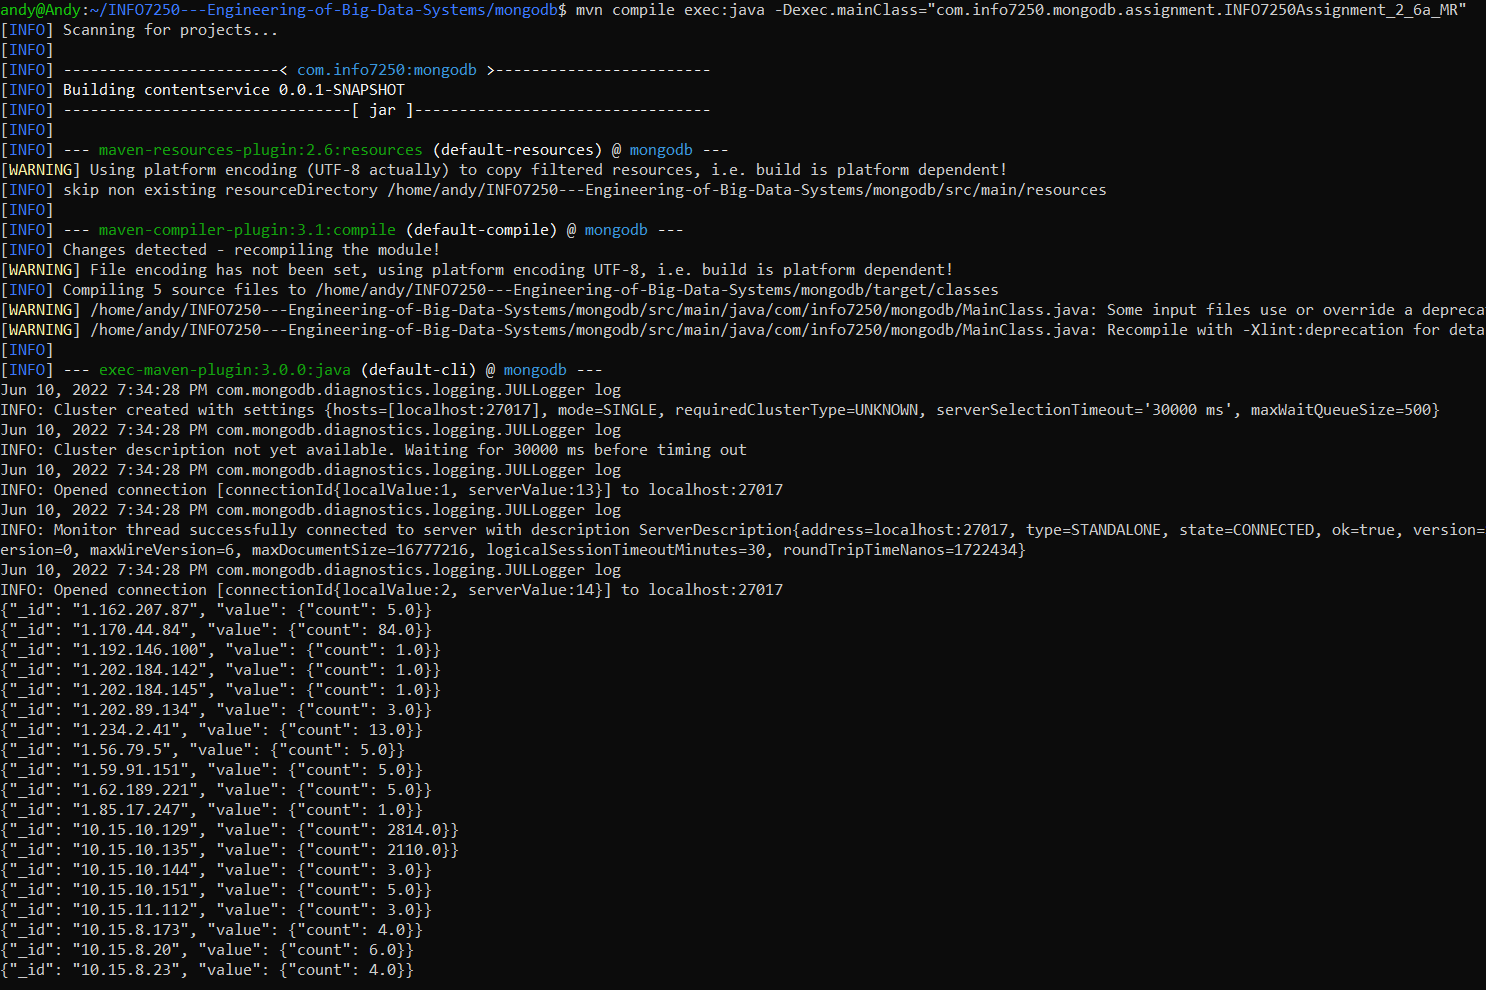
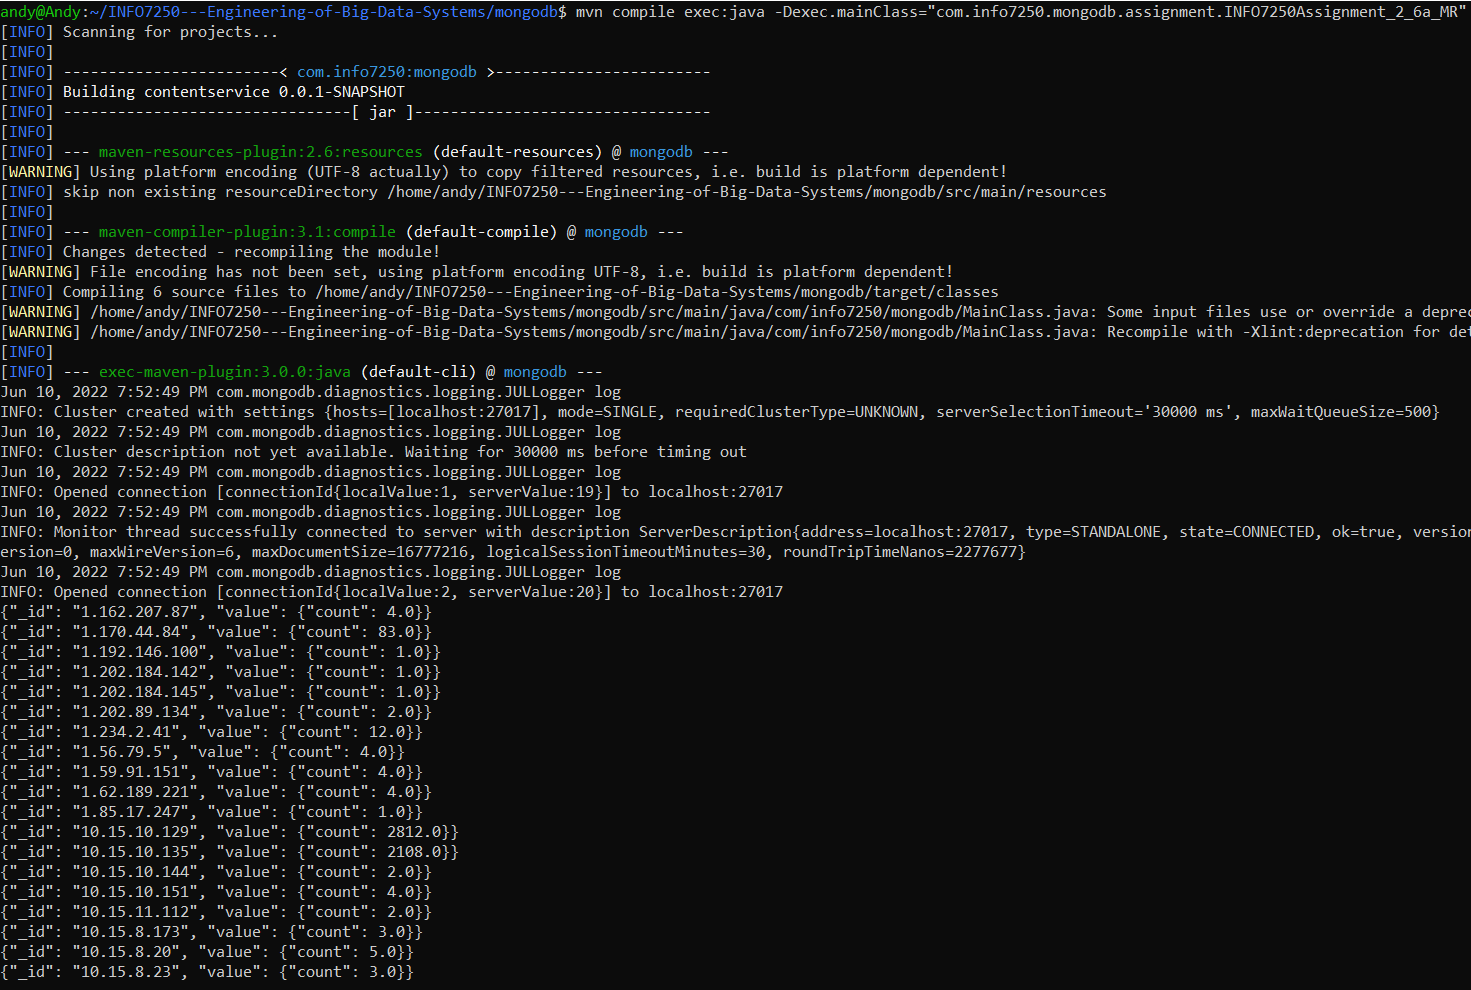
6a & 6b MR fixed ss

Changed region(s): [[0.0, 0.0, 1.0, 1.0]]

diff --git a/Assignment/Assignment 2/Aniruddha_Tambe_002101113_a02.md b/Assignment/Assignment 2/Aniruddha_Tambe_002101113_a02.md
@@ -438,7 +438,7 @@ public class INFO7250Assignment_2_6a_MR implements Block<Document> {
 				
 				// Define the reduce function
 				String reduce = "function(key,values){"
-						+ "var result = {\"count\":1};"
+						+ "var result = {\"count\":0};"
 						+ "values.forEach("
 							+ "function(value){"
 								+"result.count += value.count;"
@@ -545,7 +545,7 @@ public class INFO7250Assignment_2_6b_MR implements Block<Document> {
 				
 				// Define the reduce function
 				String reduce = "function(key,values){"
-						+ "var result = {\"count\":1};"
+						+ "var result = {\"count\":0};"
 						+ "values.forEach("
 							+ "function(value){"
 								+"result.count += value.count;"
